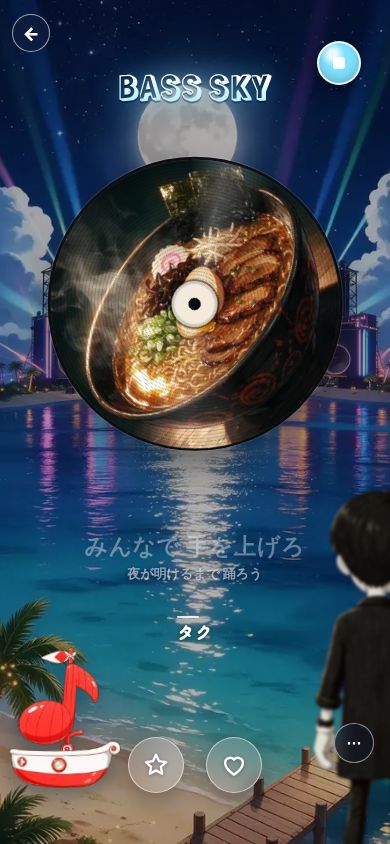
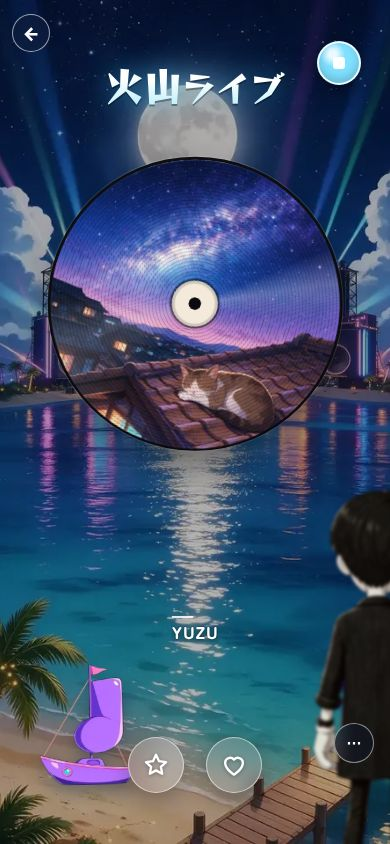
Mercury's shore: a slightly smaller ship at 22% so the whole hull shows and ☆ stays clear; screenshot re-taken
Claude-Session: https://claude.ai/code/session_01VLiVxXYEkJP9Xt5cBFE8CF

diff --git a/apps/web/lib/planetTemplate/skyPlanets.ts b/apps/web/lib/planetTemplate/skyPlanets.ts
@@ -106,7 +106,7 @@ const P = (x: number, y: number, size: number): ShorePoint => ({ x, y, size });
 const FIVE_SKY: SkyPlanet = { land: 'flutter', shore: { from: P(0.5, -0.12, 0.35), to: P(0.22, 0.86, 0.95), out: P(0.5, -0.2, 0.3) }, holdMs: 5200, whoTop: 0.79, home: 'きみの星', works: '作品' };
 
 export const SKY_PLANETS: Record<HomePlanet, SkyPlanet> = {
-  mercury: { land: 'sail', shore: { from: P(-0.2, 0.5, 0.35), to: P(0.24, 0.86, 1.05), out: P(1.25, 0.55, 0.45) }, holdMs: null, whoTop: 0.73, home: 'きみの島', works: '曲' },
+  mercury: { land: 'sail', shore: { from: P(-0.2, 0.5, 0.35), to: P(0.22, 0.86, 0.9), out: P(1.25, 0.55, 0.45) }, holdMs: null, whoTop: 0.73, home: 'きみの島', works: '曲' },
   jupiter: { land: 'flutter', shore: { from: P(0.5, 0.08, 0.3), to: P(0.17, 0.86, 0.9), out: P(0.5, -0.2, 0.3) }, holdMs: 7000, whoTop: 0.76, home: 'きみの森', works: 'アート' },
   saturn: { land: 'floor', shore: { from: P(0.5, -0.1, 0.4), to: P(0.5, 0.62, 1.25), out: P(1.2, 0.5, 0.6) }, holdMs: 5000, whoTop: 0.72, home: 'きみのレコード', works: '声' },
   mars: { ...FIVE_SKY, holdMs: null, works: 'MV' },
